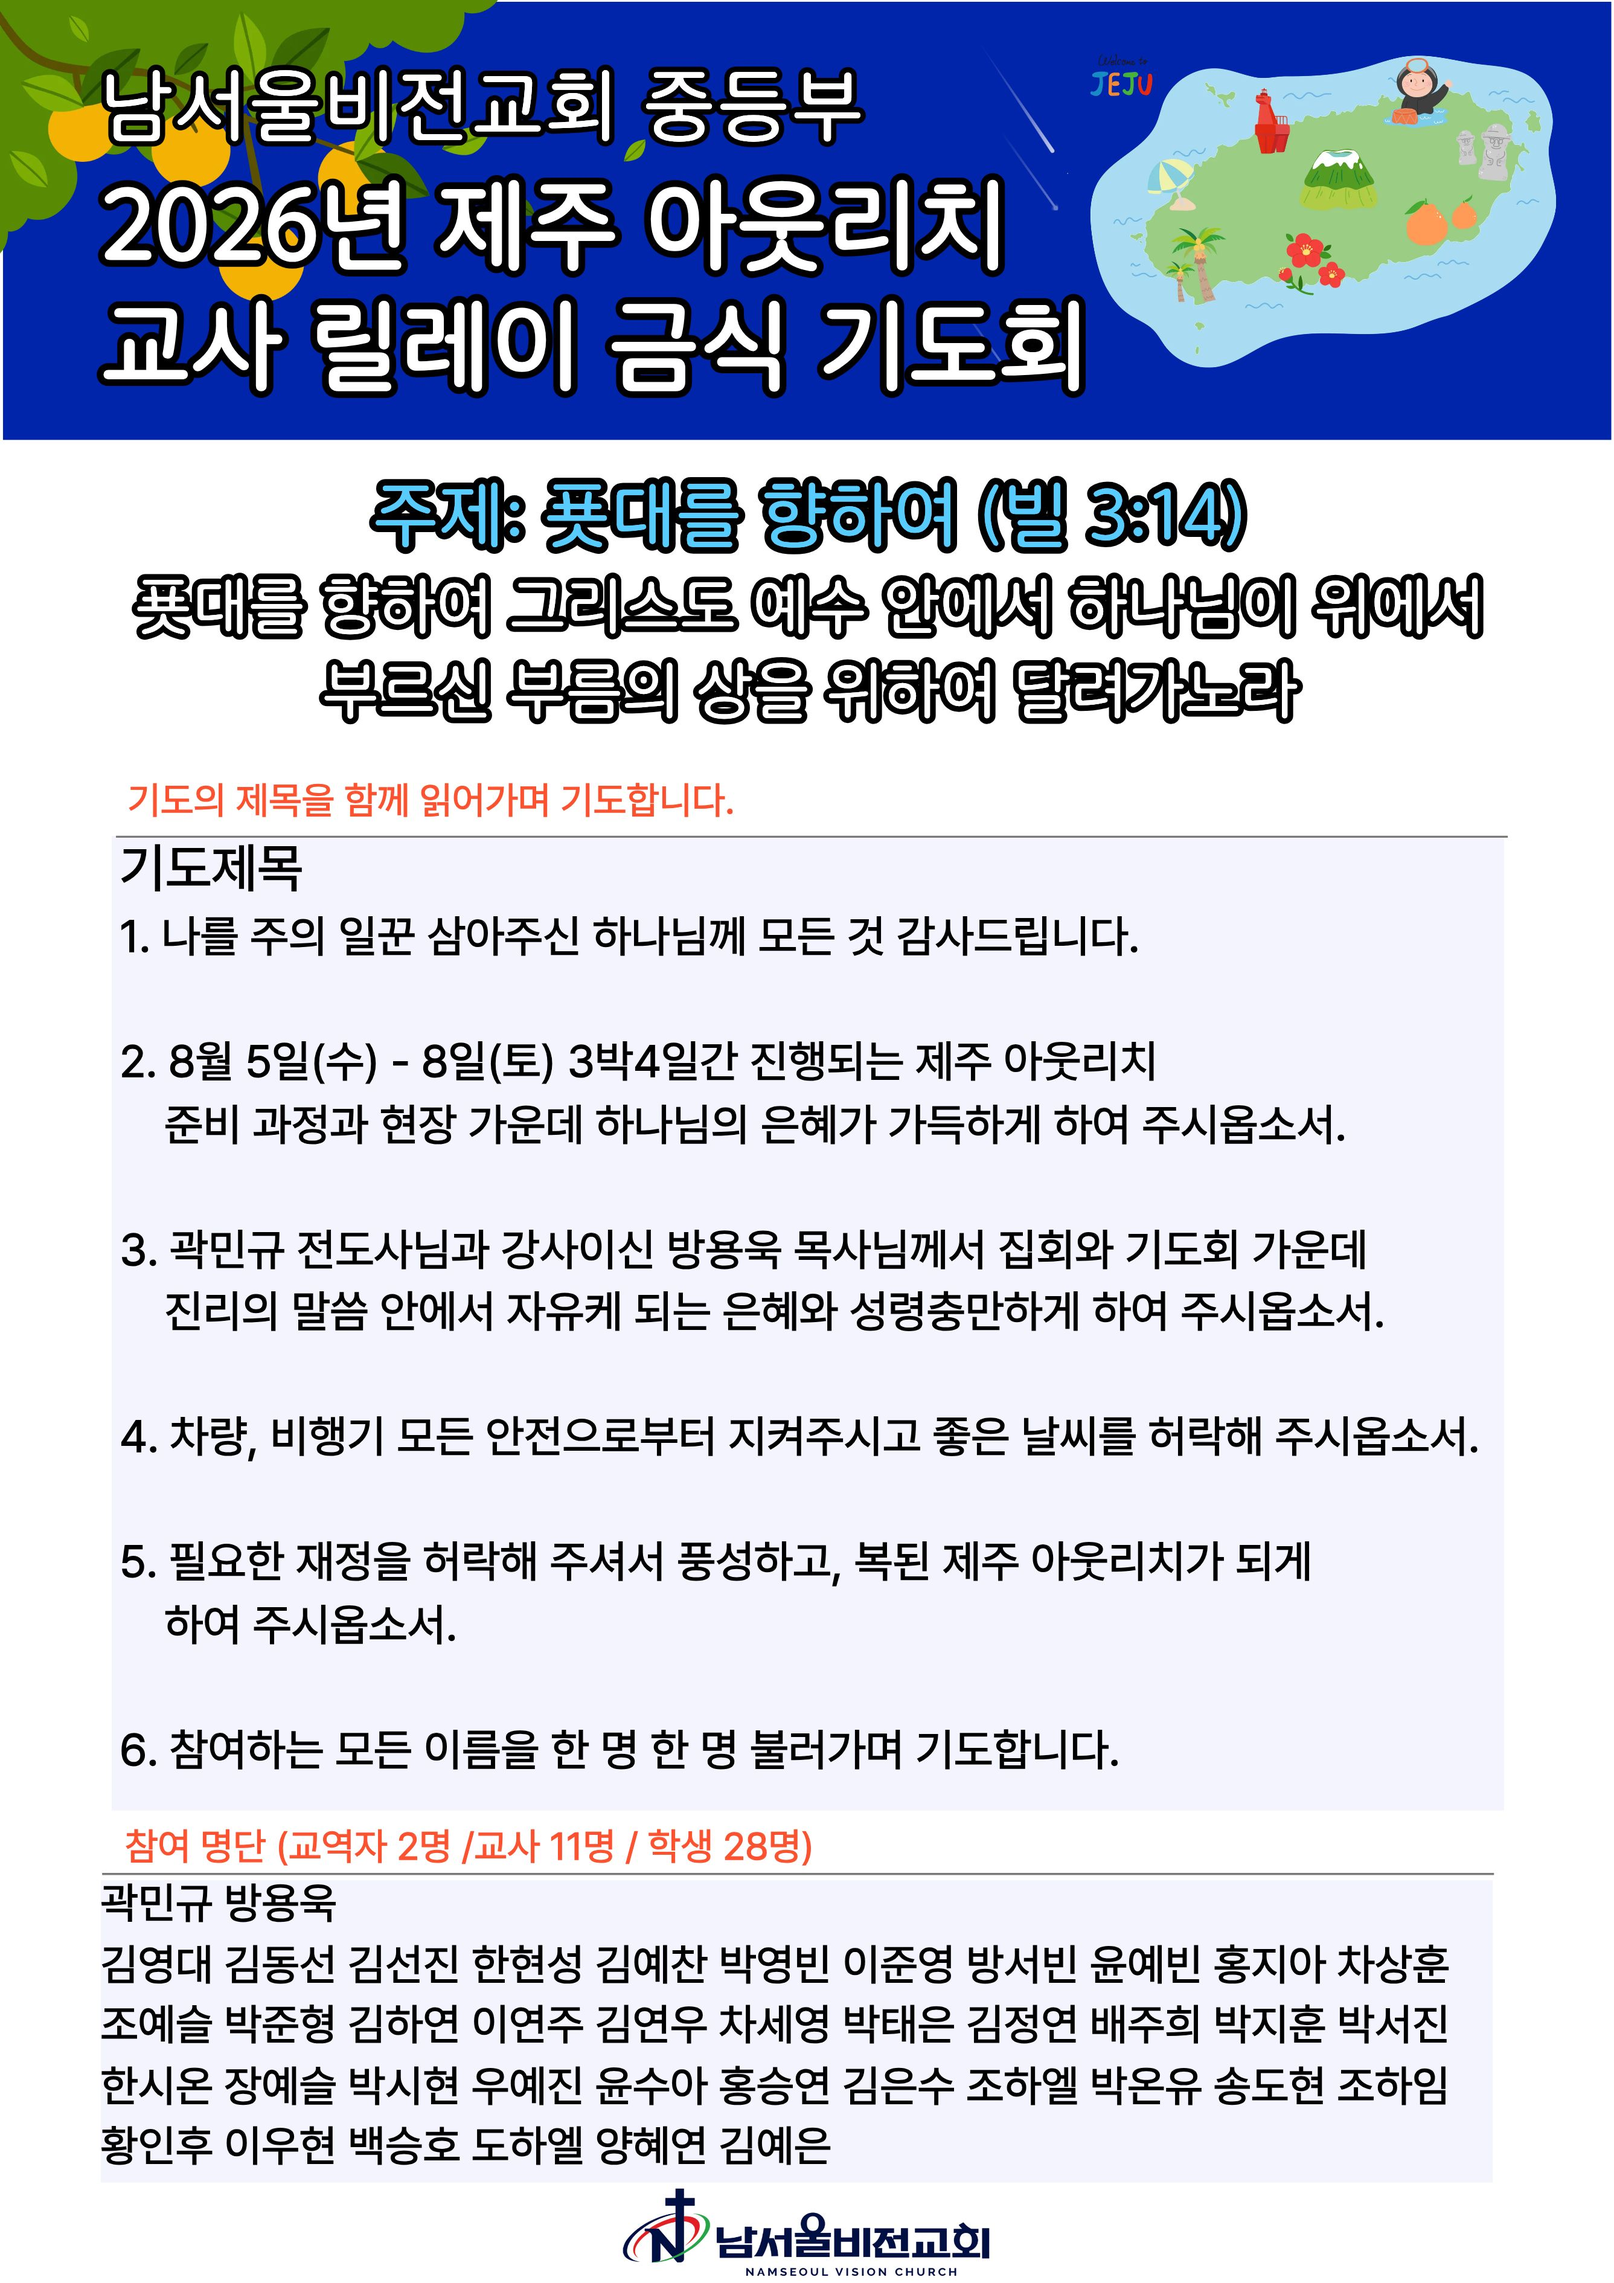
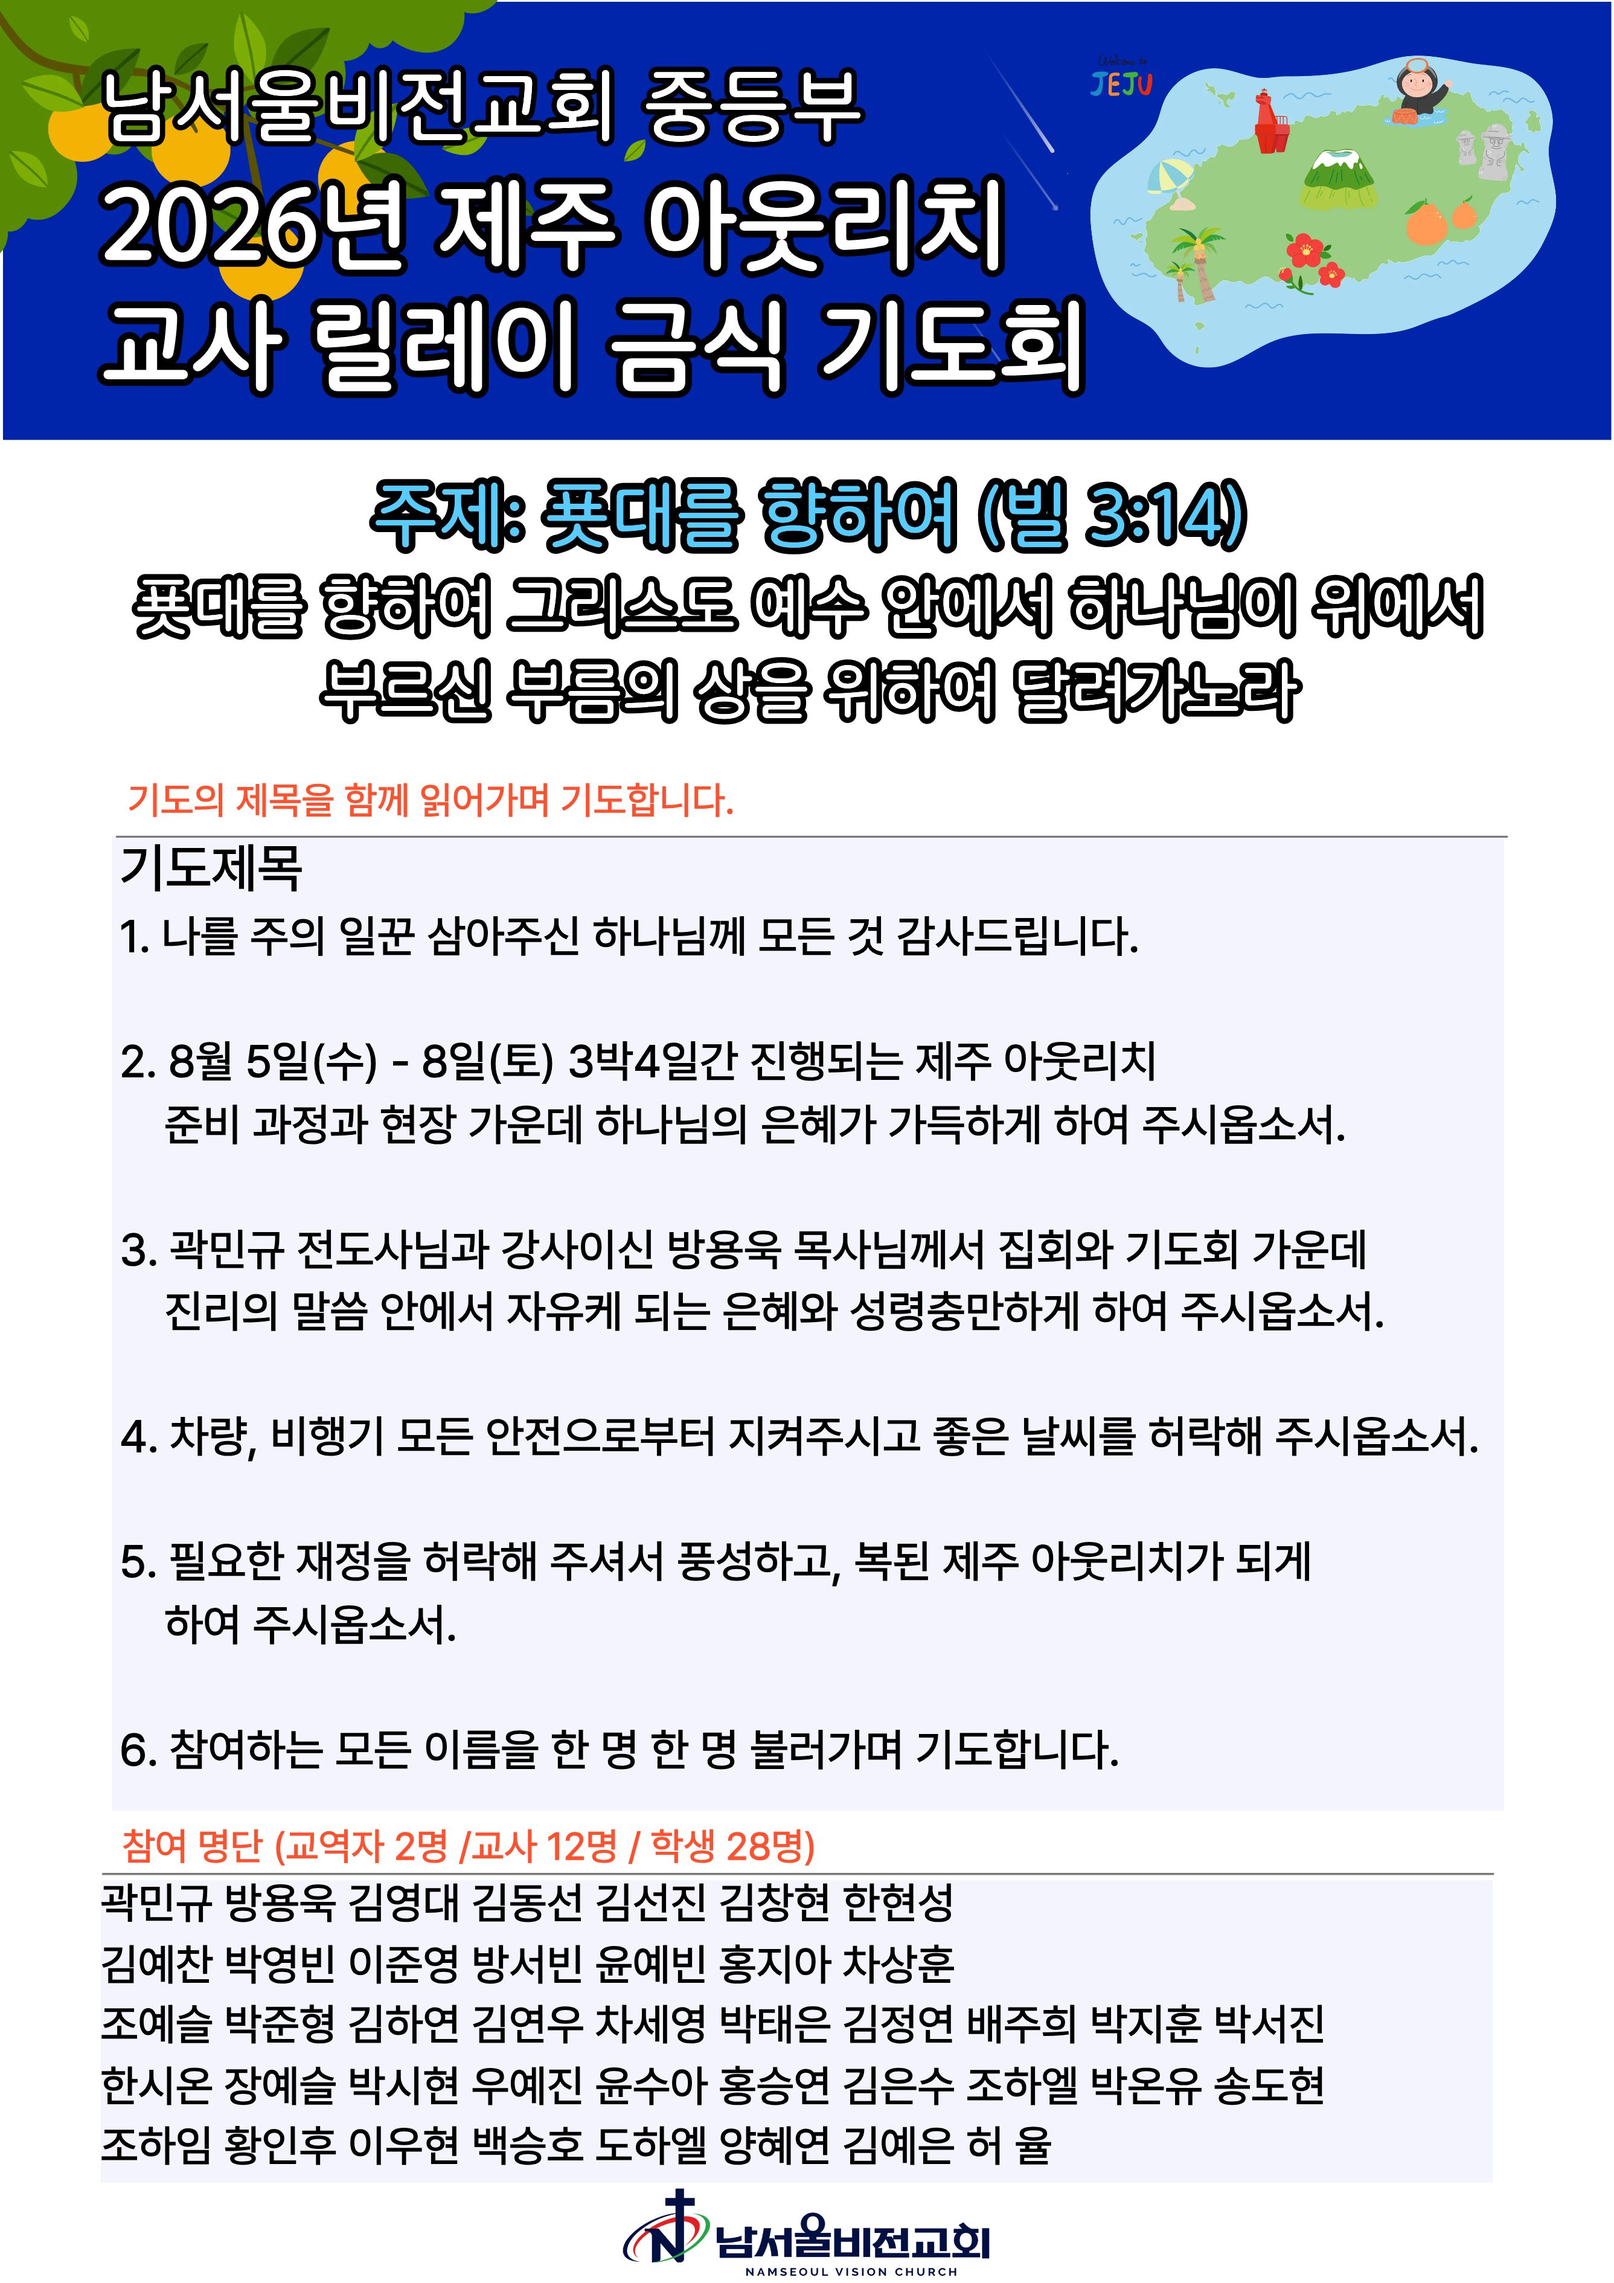
찬조자명단 추가 수정

Changed region(s): [[0.0932, 0.7804, 0.9005, 0.9365], [0.0621, 0.9365, 0.4658, 0.9677], [0.4968, 0.9365, 0.6521, 0.9677]]

diff --git a/app/page.tsx b/app/page.tsx
@@ -17,7 +17,8 @@ const sponsors = [
   "조기훈 2학년주임 선생님",
   "곽은하 선생님",
   "김선진 회계 선생님",
-  "박상수 집사님(박준형 아버님)"
+  "박상수 집사님(박준형 아버님)",
+  "김동선 부감 선생님(전도용 부채 추가)"
 ];
 
 // 📅 D-Day 계산 함수
